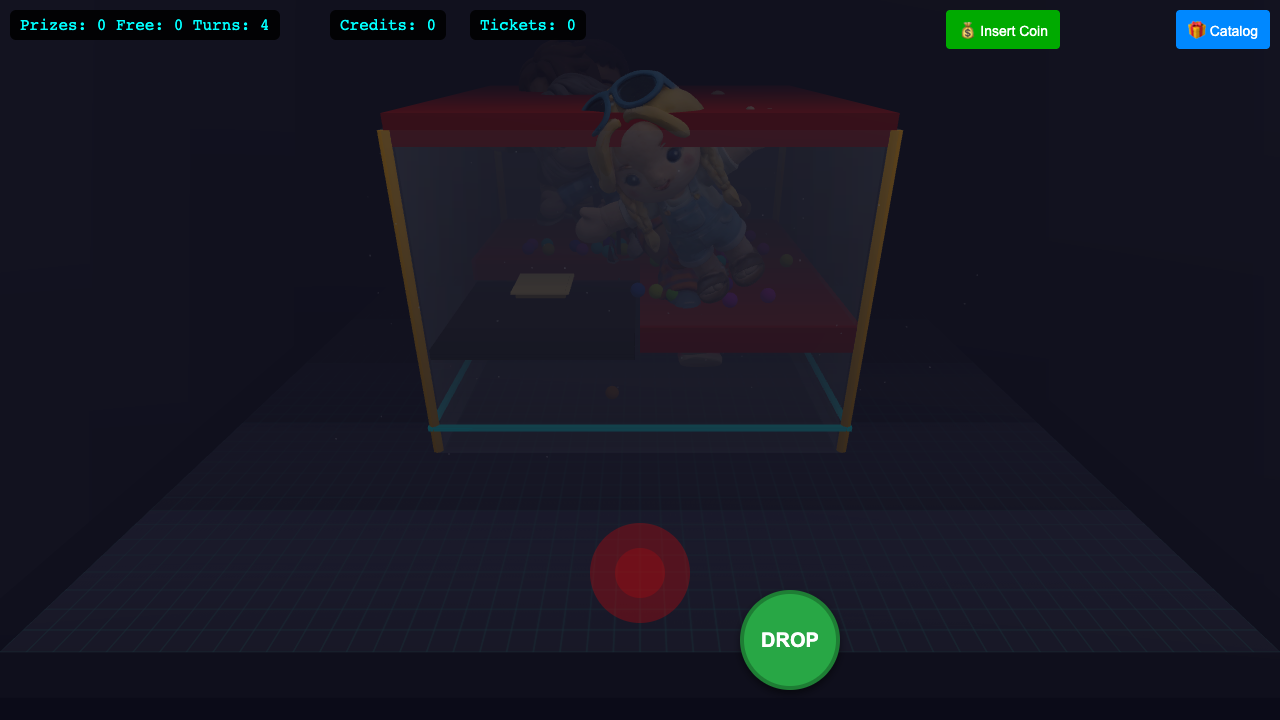
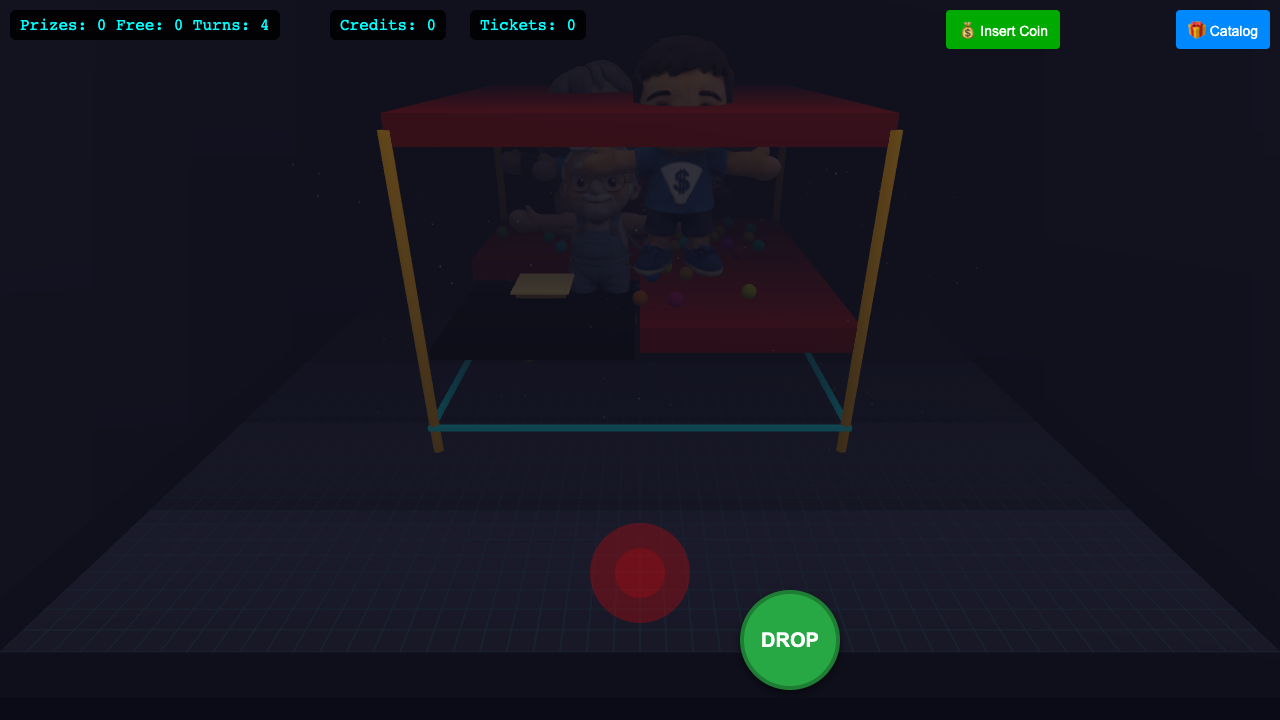
Adjust room scale claw machine

diff --git a/index.html b/index.html
@@ -647,13 +647,7 @@
         addStaticBox(new CANNON.Vec3(0.1, 3, 4), new CANNON.Vec3(4, 3, 0), floorMaterial);
         addStaticBox(new CANNON.Vec3(0.1, 3, 4), new CANNON.Vec3(-4, 3, 0), floorMaterial);
 
-        const glassMat = new THREE.MeshStandardMaterial({ color: 0xddeeff, transparent: true, opacity: 0.18, side: THREE.DoubleSide });
-        [[-4, 0], [4, 0], [0, -4], [0, 4]].forEach(([x, z]) => {
-            const geo = new THREE.BoxGeometry(x === 0 ? 8 : 0.2, 6, z === 0 ? 8 : 0.2); // Reduced height 8->6
-            const mesh = new THREE.Mesh(geo, glassMat);
-            mesh.position.set(x, 3, z); // Center at 3
-            machine.add(mesh);
-        });
+        // Machine glass walls removed; room walls now define the environment.
         const top = new THREE.Mesh(new THREE.BoxGeometry(8, 0.5, 8), baseMat);
         top.position.y = ROOF_Y;
         machine.add(top);
